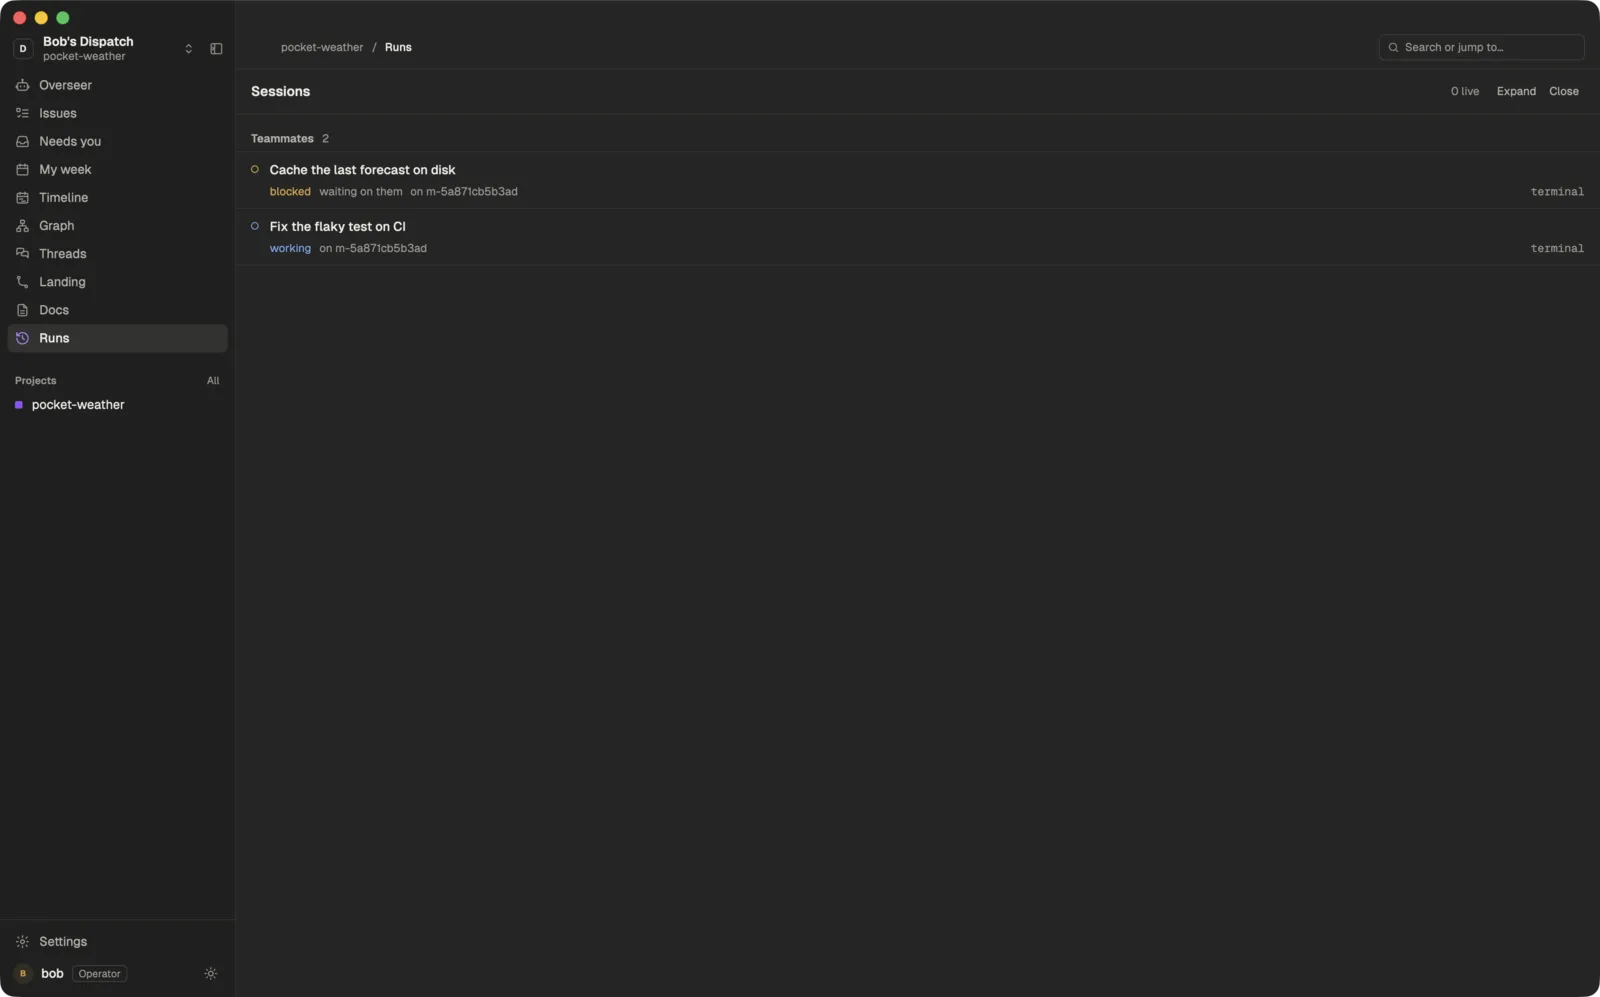
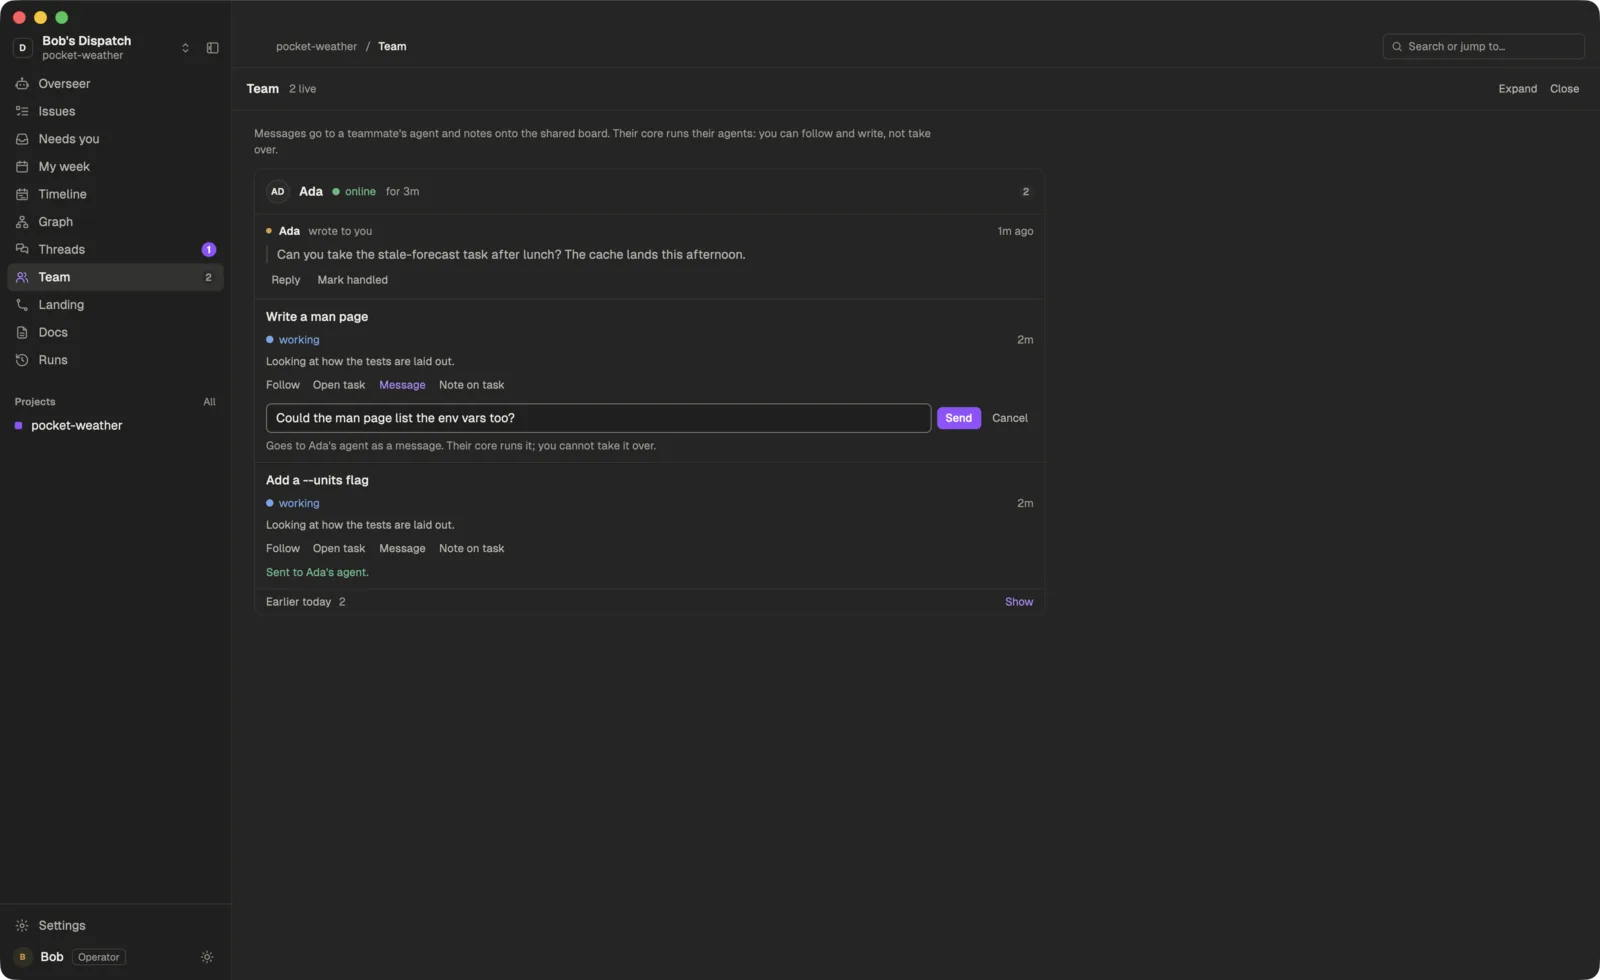
feat(site): Show the Team view and a teammate's message in light and dark

diff --git a/apps/site/src/data/shots.ts b/apps/site/src/data/shots.ts
@@ -38,9 +38,8 @@ export const shots = {
   team: {
     file: 'team',
     width: 1600,
-    height: 997,
-    alt: "Bob's Dispatch: under Runs, Sessions lists his teammate Ada's two agents, one blocked waiting on her and one working.",
-    darkOnly: true,
+    height: 980,
+    alt: "Bob's Team view: his teammate Ada, online, with her two agents at work, a message she sent him with Reply and Mark handled, and a message box open under one of her agents.",
   },
   week: {
     file: 'week',
@@ -99,6 +98,13 @@ export const shots = {
     width: 1600,
     height: 997,
     alt: 'The Hub previewing the Today panel: where it comes from and the commit it is pinned to, a warning to read the code first, Install Today, View on GitHub, and the panel’s main.js in full.',
+  },
+  // A teammate's message waiting under Coming in.
+  teamComingin: {
+    file: 'team-comingin',
+    width: 1600,
+    height: 980,
+    alt: "Bob's Overseer screen: under Coming in, Teammates waiting on you holds Ada's question with Reply and Mark handled, and the Overseer sums up what Ada's agents are doing.",
   },
 } satisfies Record<string, Shot>;
 
